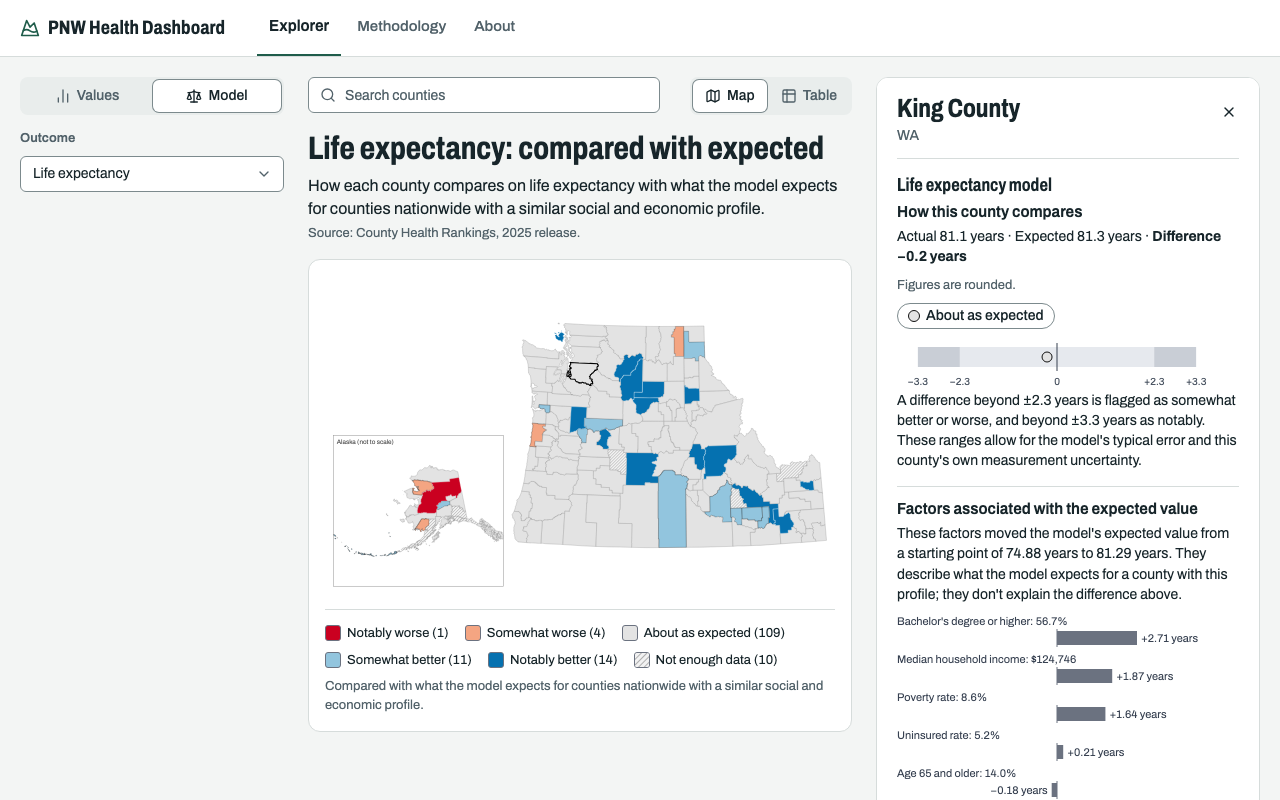
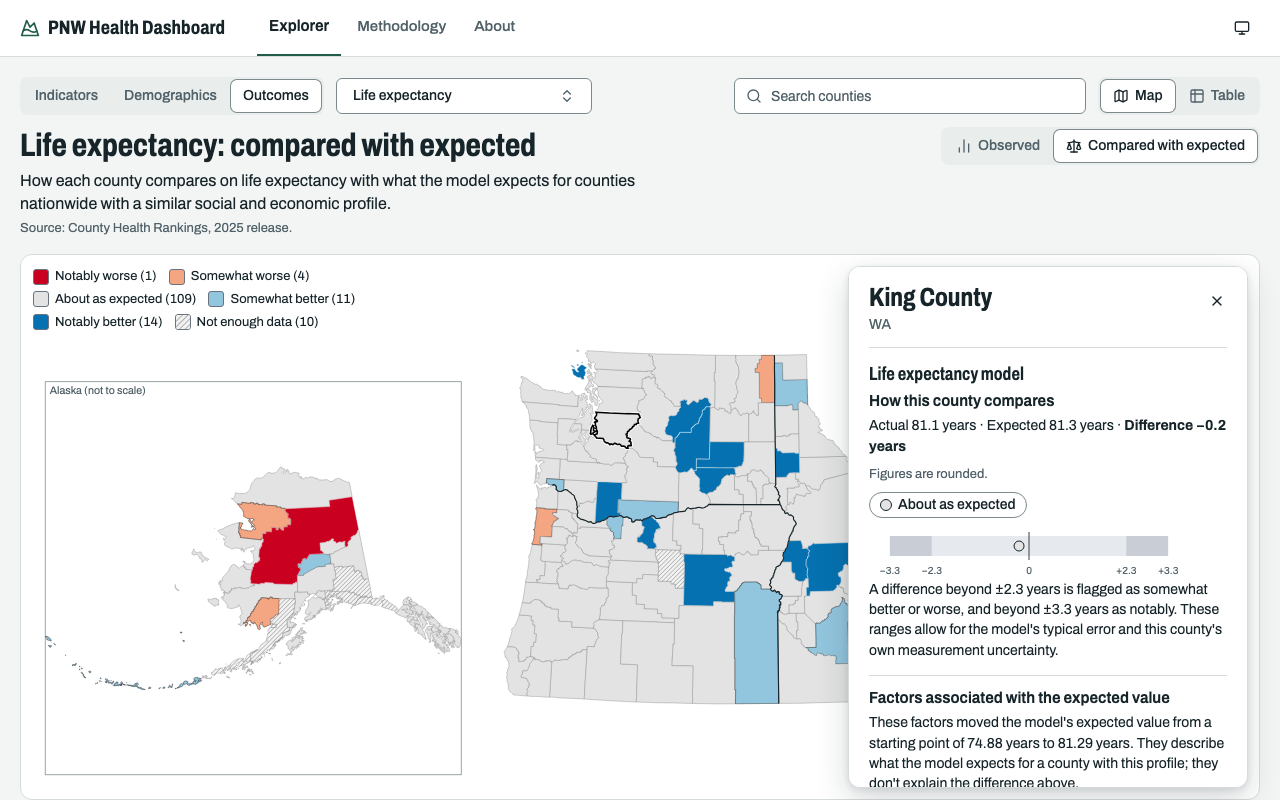
docs: explorer redesign in the specs, README and About; methodology select on Radix

diff --git a/web/src/panel/CountyPanel.test.tsx b/web/src/panel/CountyPanel.test.tsx
@@ -262,14 +262,14 @@ describe("phone drawer", () => {
 const precedes = (a: Element, b: Element) =>
   (a.compareDocumentPosition(b) & Node.DOCUMENT_POSITION_FOLLOWING) !== 0;
 
-test("model mode puts the model card before the indicator section", () => {
+test("Compared with expected puts the model card before the indicator section", () => {
   setup("53033", "poverty_rate", true);
   const card = screen.getByRole("heading", { name: "Life expectancy model" });
   const measure = document.querySelector(".panel-measure")!;
   expect(precedes(card, measure)).toBe(true);
 });
 
-test("values mode keeps the indicator section before the model card", () => {
+test("Observed keeps the indicator section before the model card", () => {
   setup("53033", "poverty_rate", false);
   const card = screen.getByRole("heading", { name: "Life expectancy model" });
   const measure = document.querySelector(".panel-measure")!;
@@ -277,7 +277,7 @@ test("values mode keeps the indicator section before the model card", () => {
 });
 
 describe("similar counties", () => {
-  test.each([false, true])("renders after Who lives here (model mode %s)", (modelMode) => {
+  test.each([false, true])("renders after Who lives here (Compared with expected %s)", (modelMode) => {
     setup("02016", "poverty_rate", modelMode);
     const who = screen.getByRole("heading", { name: "Who lives here" });
     const similar = screen.getByRole("heading", { name: "Similar counties" });
@@ -383,7 +383,7 @@ describe("race breakdown", () => {
     expect(breakdowns()).toHaveLength(0);
   });
 
-  test("model mode: breakdown for the target, right after the model card, and none in the indicator section", () => {
+  test("Compared with expected: breakdown for the target, right after the model card, and none in the indicator section", () => {
     render(panel({ indicatorId: "life_expectancy", modelMode: true }));
     expect(breakdowns()).toHaveLength(1);
     const [section] = breakdowns();
@@ -396,13 +396,13 @@ describe("race breakdown", () => {
     expect(section).toHaveTextContent(/County overall\s*80\.4 years/);
   });
 
-  test("model mode: the breakdown follows the target, not the explore indicator", () => {
+  test("Compared with expected: the breakdown follows the target, not the explore indicator", () => {
     render(panel({ indicatorId: "poverty_rate", modelMode: true }));
     expect(breakdowns()).toHaveLength(1);
     expect(breakdowns()[0]).toHaveTextContent(/White\s*81\.2 years/);
   });
 
-  test("model mode with a different target re-renders for that target", () => {
+  test("Compared with expected with a different target re-renders for that target", () => {
     const { rerender } = render(panel({ indicatorId: "poverty_rate", modelMode: true }));
     expect(breakdowns()[0]).toHaveTextContent(/White\s*81\.2 years/);
     rerender(
@@ -421,14 +421,14 @@ describe("race breakdown", () => {
     expect(section).not.toHaveTextContent("years");
   });
 
-  test("model mode without a target indicator shows no breakdown", () => {
+  test("Compared with expected without a target indicator shows no breakdown", () => {
     render(panel({ indicatorId: "life_expectancy", modelMode: true, target: undefined }));
     expect(breakdowns()).toHaveLength(0);
   });
 
   // Chugach has no strata entries, so every group is unreported, as in the real data.
   test.each([false, true])(
-    "all groups unreported: only the not-reported note (model mode %s)",
+    "all groups unreported: only the not-reported note (Compared with expected %s)",
     (modelMode) => {
       render(panel({ indicatorId: "life_expectancy", modelMode, fips: "02063" }));
       expect(breakdowns()).toHaveLength(1);

diff --git a/web/src/pages/methodology/ModelSection.tsx b/web/src/pages/methodology/ModelSection.tsx
@@ -1,4 +1,4 @@
-import { NativeSelect } from "@/components/ui/native-select";
+import { Select, SelectContent, SelectItem, SelectTrigger, SelectValue } from "@/components/ui/select";
 import { formatValue } from "../../color/formatValue";
 import { modelDigits } from "../../model/modelView";
 import { defaultTargetId, targetModel } from "../../model/targetView";
@@ -49,16 +49,21 @@ export function ModelSection({ model: file, targetId, onTargetChange, indicators
         well below its national expectation, so the flags would have shown a regional offset, not
         differences between counties.
       </p>
-      <label className="methodology-select">
-        Outcome
-        <NativeSelect value={targetId} onChange={(e) => onTargetChange(e.target.value)}>
-          {targets.map(([id, t]) => (
-            <option key={id} value={id}>
-              {t.label}
-            </option>
-          ))}
-        </NativeSelect>
-      </label>
+      <div className="methodology-select">
+        <span id="methodology-outcome">Outcome</span>
+        <Select value={targetId} onValueChange={onTargetChange}>
+          <SelectTrigger aria-labelledby="methodology-outcome" className="w-full">
+            <SelectValue />
+          </SelectTrigger>
+          <SelectContent>
+            {targets.map(([id, t]) => (
+              <SelectItem key={id} value={id}>
+                {t.label}
+              </SelectItem>
+            ))}
+          </SelectContent>
+        </Select>
+      </div>
       <p>
         The details below, the factors by importance, and the details under Reproducibility are for
         the outcome selected here. The accuracy table covers every outcome.
@@ -128,7 +133,7 @@ export function ModelSection({ model: file, targetId, onTargetChange, indicators
       </h4>
       <p>
         A county whose value for the outcome isn't reported has no model result, because there is
-        nothing to compare its expected value with. In model mode these counties are hatched and
+        nothing to compare its expected value with. On the map, with Compared with expected on, these counties are hatched and
         marked "Not enough data".
       </p>
       <h4>Factors that stand in for others</h4>

diff --git a/web/src/pages/About.tsx b/web/src/pages/About.tsx
@@ -26,9 +26,21 @@ export function About() {
 
       <h3>How to use it</h3>
       <ul>
-        <li>Values mode colors the map by one indicator; model mode compares one of the three outcomes with its expected value.</li>
+        <li>
+          Pick a category (Indicators, Demographics or Outcomes), then a measure from the
+          dropdown. Type in the dropdown to filter the list.
+        </li>
+        <li>
+          For life expectancy, premature death and injury deaths, switch between Observed and
+          Compared with expected. Compared with expected colors each county by how far its actual
+          value sits from the model's expected value.
+        </li>
         <li>Switch between the map and a sortable table of the same counties.</li>
-        <li>Search for a county by name, or select one on the map or in the table, to see its details.</li>
+        <li>
+          Search for a county by name, or select one on the map or in the table, to see its details
+          in the panel.
+        </li>
+        <li>Use the theme menu in the header to choose light, dark or the system setting.</li>
       </ul>
       <p>
         Caveats and sources are on the <Link to="/methodology">methodology</Link> page.
@@ -36,8 +48,9 @@ export function About() {
 
       <h3>Built with</h3>
       <p>
-        Python (uv, pandas, LightGBM, SHAP) for the data pipeline and model; React, Vite, d3-geo
-        and Observable Plot for the site. GitHub Actions rebuilds the data and deploys the site to
+        Python (uv, pandas, LightGBM, SHAP) for the data pipeline and model; React, Vite, TypeScript,
+        Tailwind, Radix and shadcn components, Lucide icons, d3-geo and Observable Plot for the
+        site. GitHub Actions rebuilds the data and deploys the site to
         GitHub Pages.
       </p>
 

diff --git a/web/src/pages/About.test.tsx b/web/src/pages/About.test.tsx
@@ -62,7 +62,22 @@ test("describes the three outcomes and the similar counties list", () => {
   renderAbout();
   const text = document.body.textContent ?? "";
   expect(text).toContain("life expectancy by default, premature death and injury deaths");
-  expect(text).toContain("model mode compares one of the three outcomes with its expected value");
+  expect(text).toContain("switch between Observed and Compared with expected");
   expect(text).toMatch(/similar counties, the nearest Pacific Northwest counties/);
   expect(text).not.toMatch(/model of county life expectancy/);
+});
+
+test("How to use it describes the toolbar, the switch and the theme menu", () => {
+  renderAbout();
+  const text = document.body.textContent ?? "";
+  expect(text).toMatch(/Pick a category \(Indicators, Demographics or Outcomes\)/);
+  expect(text).toMatch(/Observed and Compared with expected/);
+  expect(text).toMatch(/theme menu in the header/);
+  expect(text).not.toMatch(/values\smode|model\smode/i);
+});
+
+test("Built with names the front-end libraries", () => {
+  renderAbout();
+  const text = document.body.textContent ?? "";
+  for (const name of ["Tailwind", "Radix", "shadcn", "Lucide"]) expect(text).toContain(name);
 });

diff --git a/web/src/explorer/Explorer.test.tsx b/web/src/explorer/Explorer.test.tsx
@@ -330,7 +330,7 @@ test("model table replaces the value table, keeps c and view, and back restores 
   expect(screen.getByRole("button", { name: "King, WA" })).toHaveAttribute("aria-current", "true");
 });
 
-test("model mode: hovering King shows the tier tooltip", () => {
+test("Compared with expected: hovering King shows the tier tooltip", () => {
   setup("/?i=life_expectancy&show=expected");
   fireEvent.pointerEnter(document.querySelector('path[data-fips="53033"]')!, {
     pointerType: "mouse",
@@ -483,7 +483,7 @@ test("the skip link falls back to the plain anchor when the search isn't there",
   expect(fireEvent.click(screen.getByRole("link", { name: "Skip to county search" }))).toBe(true);
 });
 
-test("switching to model mode with a county open puts the card first and keeps focus", async () => {
+test("switching to Compared with expected with a county open puts the card first and keeps focus", async () => {
   const router = setup("/?i=life_expectancy&c=53033");
   const user = userEvent.setup();
   const modelButton = screen.getByRole("radio", { name: "Compared with expected" });

diff --git a/web/src/panel/CountyPanel.tsx b/web/src/panel/CountyPanel.tsx
@@ -35,7 +35,7 @@ type Props = {
   strata: StrataFile;
   /** The manifest indicator for the model target; its race breakdown follows the model card. */
   targetIndicator: Indicator | undefined;
-  /** In model mode the model card comes first (parent spec §6). */
+  /** With Compared with expected the model card comes first (parent spec §6). */
   modelMode: boolean;
   peers: Peers;
   /** Selects another county, exactly as a map click does. */
@@ -109,7 +109,7 @@ export function CountyPanel({
           <Link to={legacy ? "/methodology#legacy" : "/methodology#suppression"}>Methodology</Link>
         </p>
       )}
-      {/* In model mode the breakdown is the target's, after the model card, so it is not repeated here. */}
+      {/* With Compared with expected the breakdown is the target's, after the model card, so it is not repeated here. */}
       {!modelMode && (
         <RaceBreakdown indicator={indicator} fips={county.fips} overall={entry} strata={strata} />
       )}

diff --git a/web/src/pages/Methodology.test.tsx b/web/src/pages/Methodology.test.tsx
@@ -106,11 +106,13 @@ test("the outline nests: one page h2, sections at h3, sub-anchors at h4", () => 
 test("the outcome select lives on the page, defaults to life expectancy and drives importance and the model card", async () => {
   at(ready);
   const select = screen.getByRole("combobox", { name: "Outcome" });
-  expect(select).toHaveValue("life_expectancy");
+  expect(select).toHaveTextContent("Life expectancy");
   expect(
     screen.getByRole("heading", { level: 4, name: /Factors by importance/ }),
   ).toHaveTextContent("Life expectancy");
-  await userEvent.setup().selectOptions(select, "premature_death");
+  const user = userEvent.setup();
+  await user.click(select);
+  await user.click(screen.getByRole("option", { name: "Premature death (years lost)" }));
   expect(
     screen.getByRole("heading", { level: 4, name: /Factors by importance/ }),
   ).toHaveTextContent("Premature death");

diff --git a/web/src/pages/methodology/ModelSection.test.tsx b/web/src/pages/methodology/ModelSection.test.tsx
@@ -72,9 +72,11 @@ test("the outcome select is labelled, defaults to the given target and reports c
     />,
   );
   const select = screen.getByRole("combobox", { name: "Outcome" });
-  expect(select).toHaveValue("life_expectancy");
-  expect(within(select).getAllByRole("option")).toHaveLength(Object.keys(modelFile.targets).length);
-  await userEvent.setup().selectOptions(select, "premature_death");
+  expect(select).toHaveTextContent("Life expectancy");
+  const user = userEvent.setup();
+  await user.click(select);
+  expect(screen.getAllByRole("option")).toHaveLength(Object.keys(modelFile.targets).length);
+  await user.click(screen.getByRole("option", { name: "Premature death (years lost)" }));
   expect(seen).toEqual(["premature_death"]);
 });
 

diff --git a/web/src/panel/buildPeerRows.ts b/web/src/panel/buildPeerRows.ts
@@ -2,9 +2,9 @@ import type { County, Flag, Peers, TargetModel, ValueEntry } from "../types";
 
 type RowBase = { fips: string; name: string; state: string; isSelected: boolean };
 
-/** A row in values mode: the indicator value. */
+/** A row in Observed: the indicator value. */
 export type ValuesPeerRow = RowBase & { kind: "values"; value: number | null };
-/** A row in model mode: the actual value, the expected value and the result. */
+/** A row in Compared with expected: the actual value, the expected value and the result. */
 export type ModelPeerRow = RowBase & {
   kind: "model";
   value: number | null;

diff --git a/web/src/panel/SimilarCounties.test.tsx b/web/src/panel/SimilarCounties.test.tsx
@@ -86,7 +86,7 @@ test("shows 'Not available' for a null value", () => {
   expect(within(row).getByText("Not available")).toBeInTheDocument();
 });
 
-test("model mode shows actual, expected and flag; median row has no flag", () => {
+test("Compared with expected shows actual, expected and flag; median row has no flag", () => {
   setup();
   const king = screen.getByRole("row", { name: /King/ });
   expect(within(king).getByText("80.8 years")).toBeInTheDocument();

diff --git a/README.md b/README.md
@@ -8,12 +8,14 @@ Explore public health data for the 149 counties of Washington, Oregon, Idaho and
 
 **Live site: <https://edward-sf.github.io/pnw-health-dashboard/>**
 
-![The explorer in model mode, with King County, Washington selected](docs/images/explorer.png)
+![The explorer comparing life expectancy with expected, with King County, Washington selected](docs/images/explorer.png)
 
 ## What it does
 
-- **Explorer.** A county map and sortable table of health, access and social indicators, with confidence intervals and state and regional ranks. Selecting a county opens a panel with its values and a comparison against the other counties.
-- **Model mode.** A model trained on all US counties estimates each county's value for one of three County Health Rankings outcomes (life expectancy by default, premature death, injury deaths) from social and economic factors. The map shows how far the actual value sits above or below the estimate, and the county panel lists the factors associated with the estimate.
+- **Explorer.** A county map and sortable table of health, access and social indicators, with confidence intervals and state and regional ranks. A toolbar picks the measure: a category switch (Indicators, Demographics, Outcomes) and a searchable dropdown of that category's measures.
+- **Observed and Compared with expected.** For life expectancy, premature death and injury deaths, a switch changes the map between observed values and a comparison with the value a model expects. The model is trained on all US counties and uses social and economic factors. The map shows how far the actual value sits above or below the estimate.
+- **County panel.** Selecting a county opens a panel that floats over the map (a bottom drawer on phones) with its values and a comparison against the other counties. It lists the factors associated with the model's estimate.
+- **Dark mode.** A theme menu in the header offers Light, Dark and System. Data colors keep the same meaning in both themes.
 - **Similar counties.** The county panel lists the nearest Pacific Northwest counties on social and economic factors, with their values side by side.
 - **Race breakdown.** For five County Health Rankings outcomes (life expectancy, premature death, injury deaths, low birth weight, preventable hospital stays), the county panel shows the value for each race and ethnicity group CHR reports, with its confidence interval, and names the groups it does not. The breakdown is never mapped or ranked.
 - **Who lives here.** The county panel also profiles who lives in the county from Census ACS estimates: total population, age and sex, race and ethnicity, disability, veterans, birthplace and English ability. These Demographics indicators describe the population and are never model features.

diff --git a/docs/superpowers/specs/2026-11-13-m11-explorer-redesign-design.md b/docs/superpowers/specs/2026-11-13-m11-explorer-redesign-design.md
@@ -92,6 +92,7 @@ The author chose A.
 - **Legend.** Inside the stage, in the empty corner above Alaska, laid out so its height does not move the map **(call)**. On phones it sits under the map inside the stage.
 - **Panel, ≥721px.** 400px wide, inset 12px from the stage's top, right and bottom edges, own scroll, sticky header, a shadow to lift it off the map. It floats over the stage in map view. In table view the table's scroll frame narrows to leave room for it, since a table has no size to keep stable and covering its right-hand columns would hide ranks **(call)**.
 - **Panel, ≤720px.** A bottom drawer with snap points at 40% and 85% of the viewport, dragged by its handle. The Expand/Collapse button goes; Close stays.
+- **Open question for the author.** At 721 to 1099px the 400px panel covers most of Washington, Oregon and Idaho, and in table view it leaves a narrow table. Nothing was changed for this width; it needs a decision on whether the panel should narrow, dock, or use the drawer at tablet widths.
 - **Phone toolbar.** Category switch full width; measure dropdown full width; county search and Map/Table on one row. The description moves behind an information button (Radix Popover) so the map starts higher; the title and source line stay visible **(call)**.
 - **No county selected.** A one-line hint in the stage ("Select a county for its details") until the first selection **(call)**.
 
@@ -195,3 +196,13 @@ One issue each, in this order. Detailed steps belong to the M11 plan.
 - Dark token values, within the contrast rules in §9.
 - Component file layout under `web/src`, and whether the category mapping lives with `parseParams` or beside the picker.
 - Test structure, beyond the criteria in §2 and §10.
+
+## 14. As built (2026-11-13)
+
+Where the implementation differs from the text above:
+
+- **Map canvas.** Alaska's extent is `[[16, 150], [560, 664]]`. Hit halos use a 30-unit minimum.
+- **URL.** `show=observed` is stripped as invalid. A legacy `mode=model` link is converted only when its target is a manifest indicator.
+- **Stage height.** On phones the stage takes the map's natural height, with no 480px minimum. From 721px the model legend's note is hidden inside the stage.
+- **Panel.** The hidden dialog title "County details" is a span, not a heading. Table view leaves a 424px margin (the 400px panel plus a 12px gap) beside the panel. The phone drawer returns to its 40% position when the county changes. vaul's `modal={false}` is worked around with a nested non-modal Radix root.
+- **Methodology page.** Its Outcome control is the Radix `Select`; the native select component was removed.
